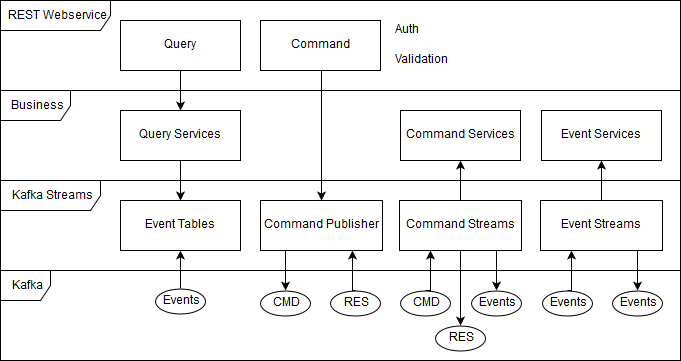
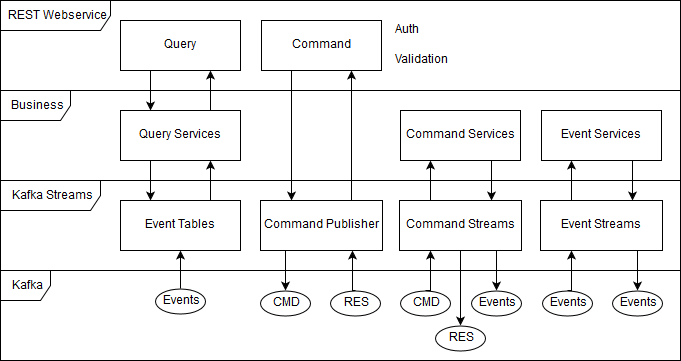
update documentation

diff --git a/oscm-common-build/oscm-common-util/src/main/java/org/oscm/common/util/ApplicationServer.java b/oscm-common-build/oscm-common-util/src/main/java/org/oscm/common/util/ApplicationServer.java
@@ -68,7 +68,7 @@ public abstract class ApplicationServer {
                     logger.info(Messages.INFO_SERVICE_STOP);
                     stop();
                 } catch (Exception e) {
-                    // ignore
+                    logger.exception(e);
                 }
             }
         }));
@@ -135,7 +135,7 @@ public abstract class ApplicationServer {
 
                 default:
                     throw new RuntimeException(
-                            "Incomplete configuration parameters");
+                            "Unkown configuration parameters");
                 }
                 break;
 
@@ -168,7 +168,7 @@ public abstract class ApplicationServer {
                     break;
 
                 default:
-                    throw new RuntimeException("Incomplete logger parameters");
+                    throw new RuntimeException("Unknown logger parameters");
                 }
 
                 break;

diff --git a/README.md b/README.md
@@ -16,54 +16,65 @@ Architecture and implementation guides as well as a description of the configura
 
 ## Getting started
 
-If you want to develop a new microservice based on these tools, just clone or download this repository. You will require Java 8 and maven for the installation, also docker if you want to run the service it in a container.
+If you want to develop a new microservice based on these tools, just clone or download this repository, execute the following instructions. You will require Java 8 and maven for the installation, also docker if you want to run the application it in a container. Note that the sample application can run without any additional work.
 
 1. Install maven archetype
-
-```
-mvn install archetype:update-local-catalog -f ./oscm-archetype/pom.xm
-mvn archetype:crawl
-```
+  ```
+  mvn install archetype:update-local-catalog -f ./oscm-archetype/pom.xm
+  mvn archetype:crawl
+  ```
 
 2. Install tools
+  ```
+  mvn install -f ./oscm-common-build/pom.xm
+  ```
 
-```
-mvn install -f ./oscm-common-build/pom.xm
-```
+3. Create new project structure (replace `sample` with application name)
+  ```
+  mvn archetype:generate \
+  	-DarchetypeCatalog=local \
+  	-DarchetypeGroupId=org.oscm.archetype \
+  	-DarchetypeArtifactId=oscm-archetype \
+  	-DarchetypeVersion=1.0.0 \
+  	-DgroupId=org.oscm.sample \
+  	-DartifactId=sample \
+  	-Dversion=0.0.1-SNAPSHOT \
+  	-Dpackage=org.oscm.sample \
+  	-DserviceToolVersion=1.0.0 \
+  ```
 
-3. Create new project structure (replace `sample` with service name)
+  4. Build project
+  ```
+  mvn install -f ./oscm-sample-build/pom.xm
+  ```
 
-```
-mvn archetype:generate \
-	-DarchetypeCatalog=local \
-	-DarchetypeGroupId=org.oscm.archetype \
-	-DarchetypeArtifactId=oscm-archetype \
-	-DarchetypeVersion=1.0.0 \
-	-DgroupId=org.oscm.sample \
-	-DartifactId=sample \
-	-Dversion=0.0.1-SNAPSHOT \
-	-Dpackage=org.oscm.sample \
-	-DserviceToolVersion=1.0.0 \
-```
-
-4. Build project (replace `sample` with service name)
-
-```
-mvn install -f ./oscm-sample-build/pom.xm
-```
-
-5. Build docker image (replace `sample` with service name)
-
-```
-docker build -t oscm-sample ./oscm-sample-build
-```
-
-Note that the sample can run without any additional work.
+  5. Build docker image
+  ```
+  docker build -t oscm-sample ./oscm-sample-build
+  ```
 
 6. Adapt the config file oscm-sample-build/config.properties and start your docker image (assuming you have a running Kafka instance).
 
+  ```
+  docker run -it --env-file ./oscm-sample-build/config.properties --name oscm-sample -p 8080:8080 oscm-sample
+  ```
+
+## Application parameters
+
 ```
-docker run -it --env-file ./oscm-sample-build/config.properties --name oscm-sample -p 8080:8080 oscm-sample
+-c [local|env] {properites <location>}
+	Determines the source, the type and the location of the configuration for this application.
+-l stdout <level>
+	Determines the destination and the log level for the application logger.
+
+Examples:
+-c env
+	Filters all environment variable for configuration keys and loads them into the application.
+	Usually used in container environments.
+-c local properties ./config.properties
+	Loads the properties file and loads all found configuration keys into the application.
+-l stdout ALL
+	Logs all log messages to the console.
 ```
 
 ## License

diff --git a/oscm-common-build/README.md b/oscm-common-build/README.md
@@ -26,6 +26,16 @@ Queries use these event topics as they read them like a table. The corresponding
 Independently event streams react to changes in an event topic and process the event in their business logic. The result is then published to another (or the same) event topic.
 
 
+## Frontend
+
+Description of the endpoints and the implementation details are found [here](./oscm-common-jersey).
+
+
+## Backend
+
+Configuration details on Apache Kafka and the implementation of Kafka Streams are found [here](./oscm-common-kafka)
+
+
 ## Implementation
 
 After installing the archetype and generating a project from it, you get several modules with sample classes:
@@ -45,7 +55,7 @@ To model your own business logic for the service tools, you have to take servera
   - `ConfigurationKey`- Defines configuration parameters for the application.
   - `EntityKey`- Defines all entities and their event classes.
   - `MessageKey` - Defines messages for logging and exceptions.
-  - `TransitionKey` - Defines transitions from on entity to another.
+  - `TransitionKey` - Defines transitions from one entity to another.
   - `VersionKey` - Defines all versions of the application.
   
 3. Write your business logic. Note that the methods that will be called by the tools must comply to the corresponding functional interface:
@@ -79,8 +89,9 @@ Mandatory. Secret for signing the json web token with HMAC.
 ### kafka-servers
 Mandatory. Comma separated list of Kafka bootstrap servers.
 
+
 ## Authorization
 
-The authorization at the REST endpoints relies on json web tokens. These tokens carry roles as a claim, which define the access rights of the caller. Also for each activity (commands and queries) a list of roles is configured that is compared with the claim. If there is a matching role, the caller is authorized.
+The authorization at the REST endpoints relies on JSON web tokens. These tokens carry roles as a claim, which define the access rights of the caller. Also for each activity (commands and queries) a list of roles is configured that is compared with the claim. If there is a matching role, the caller is authorized.
 
 Activities are also saved in the configuration file with a comma separated list of roles as value. An activity without roles can not be accessed.

diff --git a/oscm-common-build/oscm-common-jersey/README.md b/oscm-common-build/oscm-common-jersey/README.md
@@ -1,0 +1,23 @@
+# OSCM Common REST API
+
+The frontend offers two important endpoints per application:
+```
+POST https://<host>:<port>/<context>/<version>/commands/<key>
+POST https://<host>:<port>/<context>/<version>/queries/<key>
+```
+
+`host`, `port` and `context` are defined by the application configuration, while `version` must be a valid `VersionKey`. `key` describes a `ActivityKey` of the corresponding type (command or query). Also the `Authorization` field in the HTTP-header must contain a valid JSON web token. These parameters are consumed by several filters and validated:
+
+![Frontend Dataflow](../../img/Frontend_Flow.png "Frontend Dataflow")
+
+`ActivityFilter`, `AuthenticationFilter` and `VersionFilter` extract their parameters from the url or the HTTP-header. Activities and versions are checked against the ones registered in the `ConfigurationManager`, while the JSON web token is verified against the configured secret. The token claims and the keys for activity and version are saved in a `ServiceRequestContext` and forwarded to the next filters. The `MethodFilter` checks the allowed versions for a activity with the requested one and the `AuthorizationFilter` compares the callers roles from the token with the ones configured for the activity. At last the `MessageProvider` deserializes the `Event` in payload according to the class defined by the activity key. The event is updated to the current version and validated before the request is consumed by the frontend.
+
+The returned data or exception will be saved in a `Result` object. Exceptions are therefore mapped by the `ExceptionMapper`. The result is serialized in the `MessageProvider`and returnd to the caller as response.
+
+
+Besides these main endpoints also a health check for external applications such kubernetes exists:
+```
+GET http://<host>:<port>/<context>/health
+```
+
+It simply returns an empty response with status code `200 (OK)`.

diff --git a/oscm-common-build/oscm-common-kafka/README.md b/oscm-common-build/oscm-common-kafka/README.md
@@ -1,0 +1,36 @@
+# OSCM Common Kafka API
+
+## Concepts
+
+![CommandService Sequence](../../img/CommandService.png "CommandService Sequence")
+
+![EventService Sequence](../../img/EventService.png "EventService Sequence")
+
+## Conventions
+
+### Topics
+
+All topic names are generated by the tools as the following:
+
+- Commands: `<application>-command`
+- Results: `<application>-result`
+- Events: `<application>-<entity>`
+
+`application` and `entity` are the names of the corresponding `ApplicationKey` or `EntityKey` that the topic belongs to. Every application has exactly one command and one result topic. Applications are allowed to write to command topics of other applications. *IMPORTANT:* Never write to a foreign result or entity topic!  
+
+### Application ID
+
+Every stream requires an application id that is generated as the following:
+
+- CommandProducer: `<application>-<target>-<version>`
+- CommandStream: `<application>-<command>-<version>`
+- EventStream: `<application>-<transition>-<version>`
+- EventTable: `<application>-<entity>-<version>`
+
+`application` and `target` are the names of the owning or the target application. `command`, `transition` and `entity` are the names of the corresponding `ActivityKey`, `TransitionKey` or `EntityKey`. `version` is the current `VersionKey` of the executing application.
+
+## Broker configuration
+
+The Apache Kafka broker needs to be configured with the following settings to with the tools:
+
+- `log.cleanup.policy=compact` *IMPORTANT:* Without this setting data gets lost over time. 
